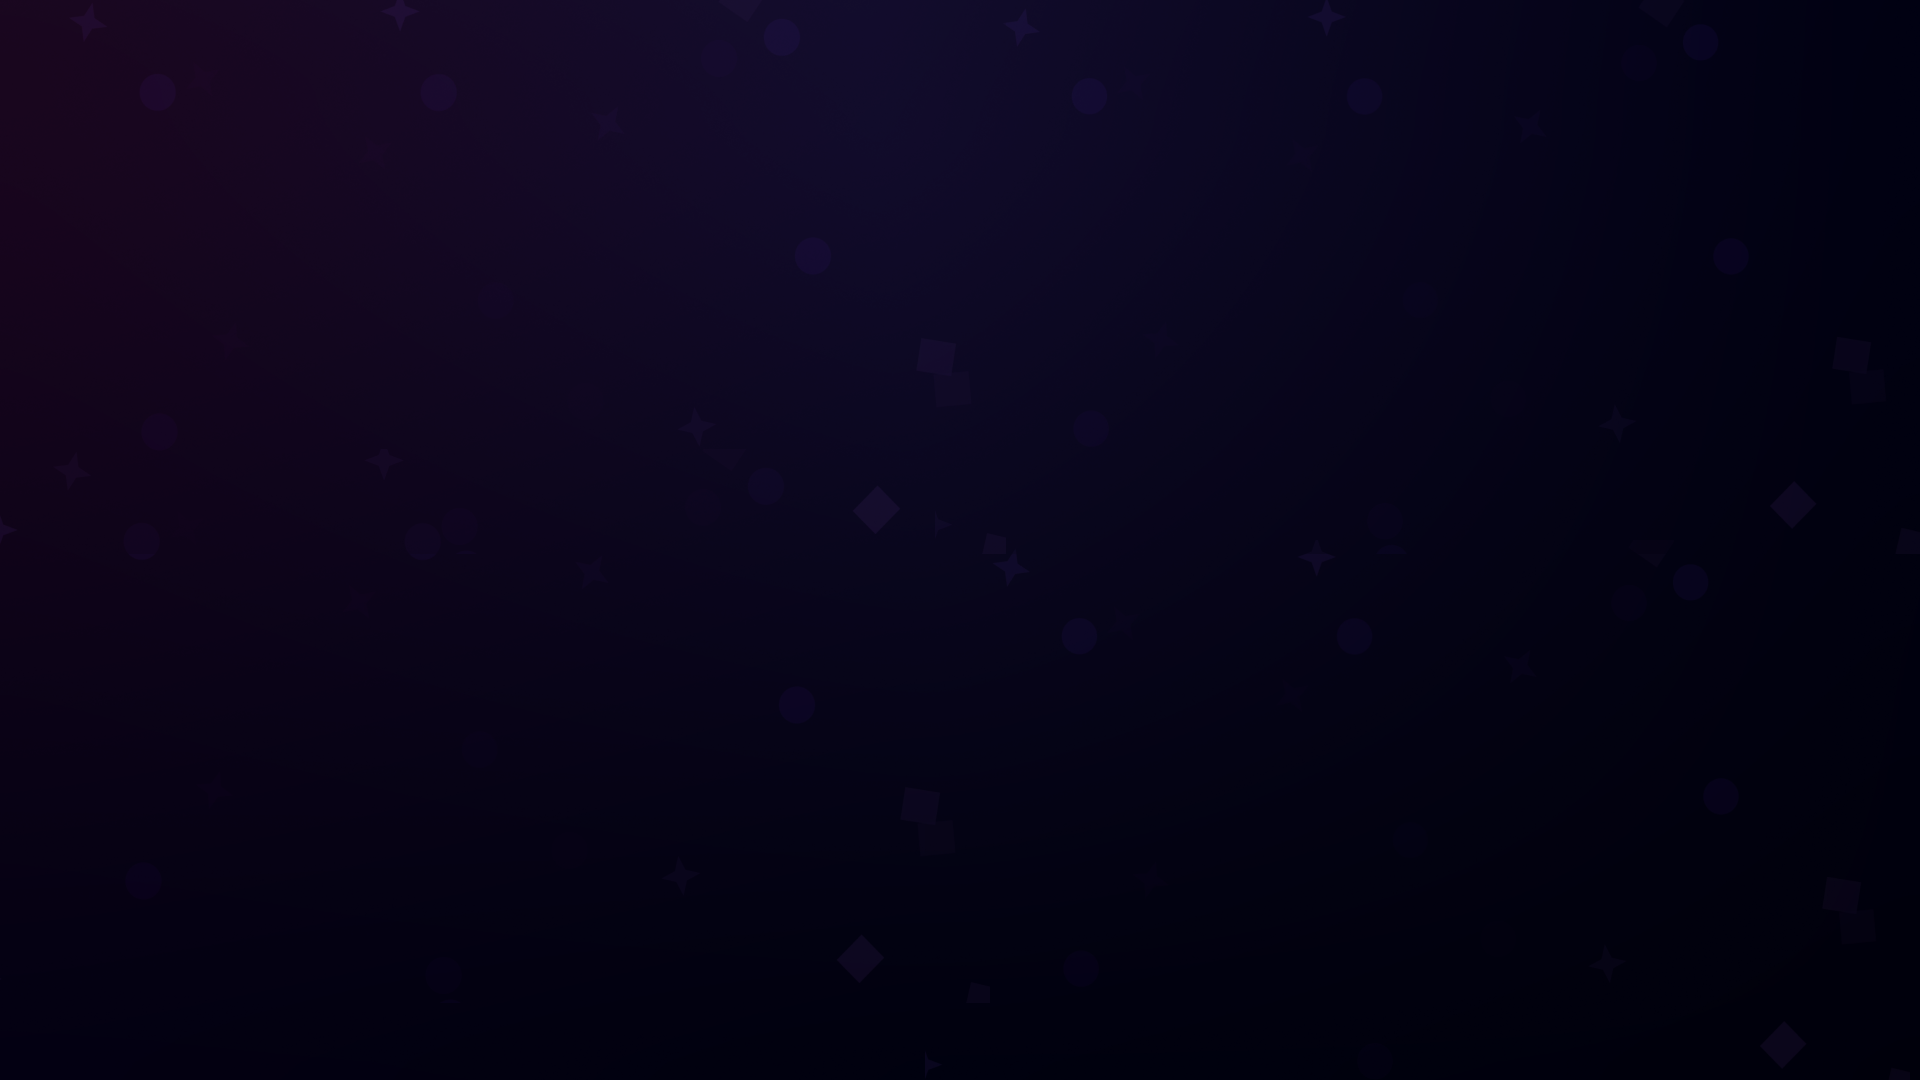
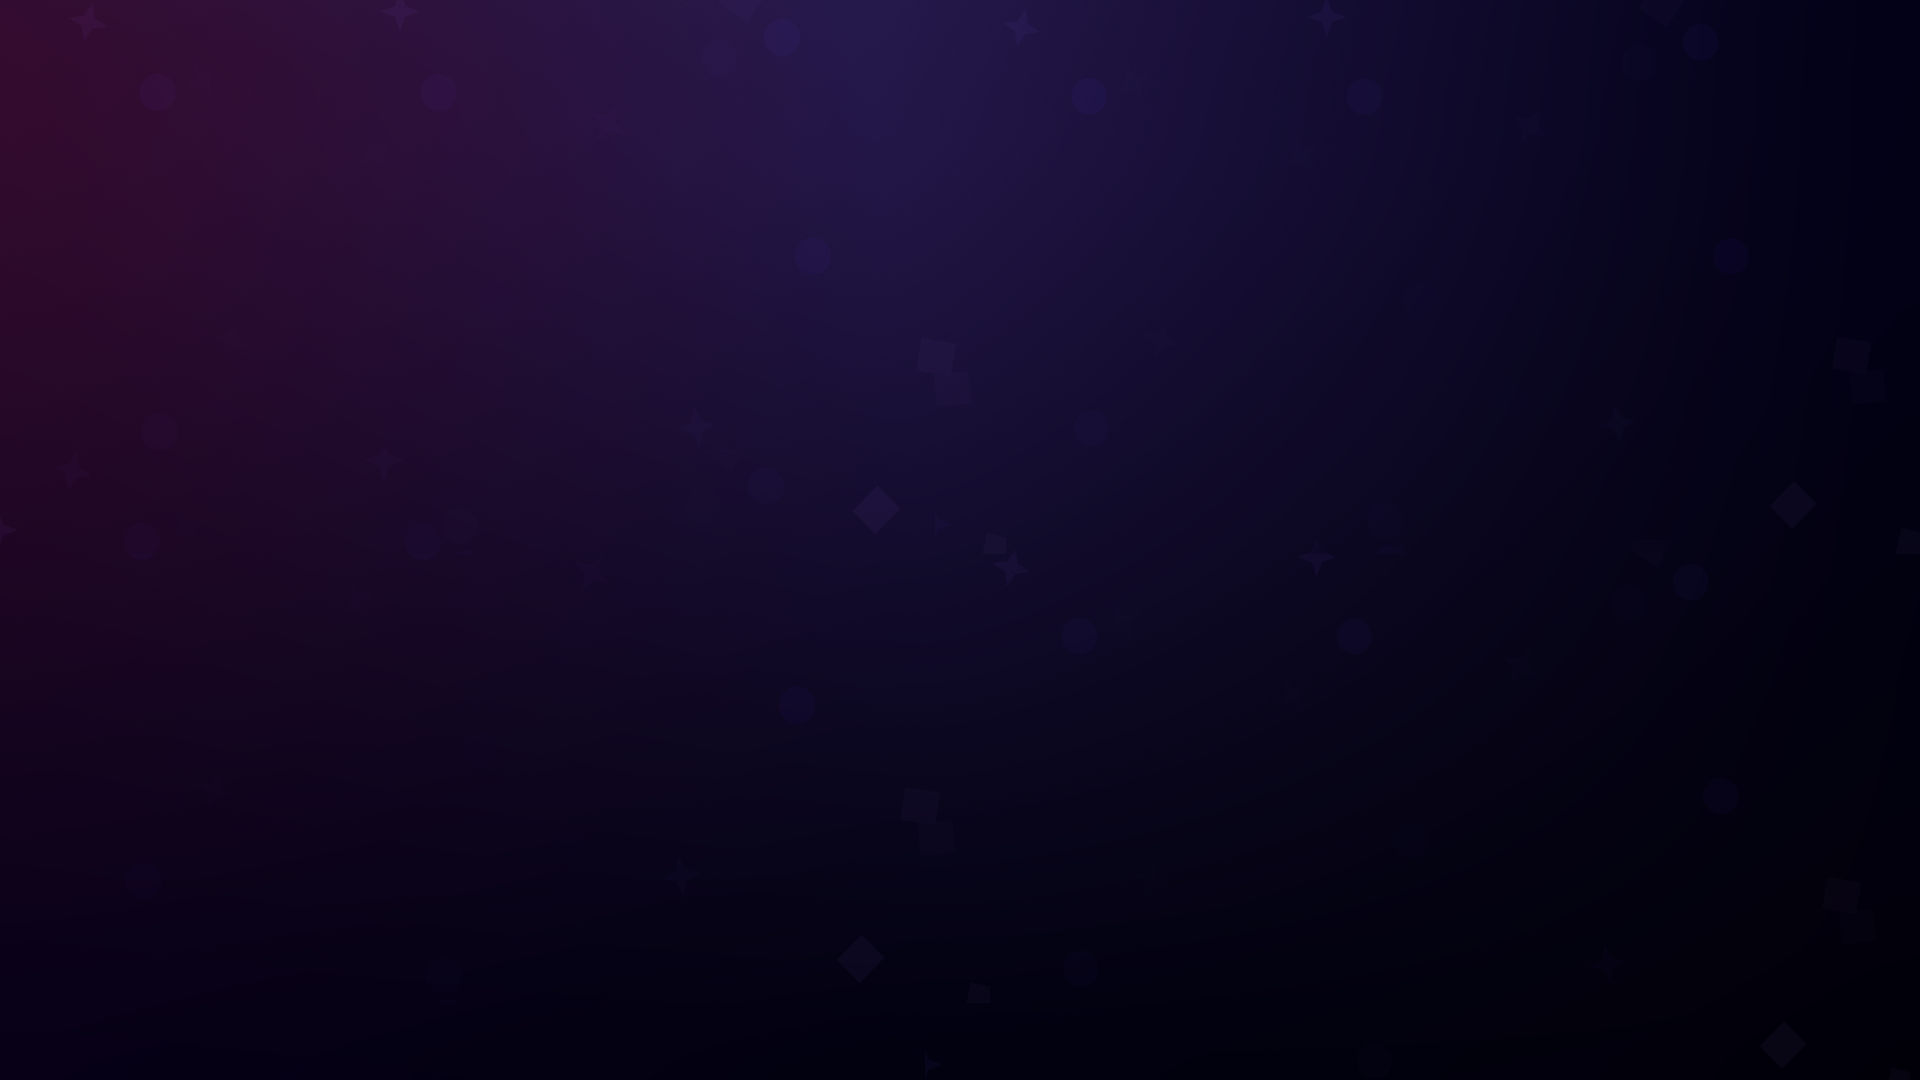
Change hero

Changed region(s): [[0.2188, 0.0, 0.5938, 0.275], [0.0, 0.0, 0.125, 0.1528]]

diff --git a/components/SidebarTech.tsx b/components/SidebarTech.tsx
@@ -59,12 +59,12 @@ const Wrapper = styled(motion.ul)`
   display: none;
 
   gap: 2.5em;
-  background: rgba(131, 82, 253, 0.08);
+  background: hsl(257, 58%, 13%);
   border-top-left-radius: 0.5rem;
   border-bottom-left-radius: 0.5rem;
   border: 1px solid rgba(131, 82, 253, 0.15);
   border-right: none;
-  filter: drop-shadow(0 0.05rem 2rem rgba(131, 82, 253, 0.1));
+  filter: drop-shadow(0 0.05rem 2rem hsl(257 58% 16% / 0.2));
 
   @media (min-width: 500px) {
     display: grid;
@@ -77,12 +77,12 @@ const Tech = styled(motion.img)`
 `
 
 const Bar = styled.div`
-  background: rgba(131, 82, 253, 0.1);
+  background: hsl(257, 58%, 12%);
   border-top-left-radius: 0.5rem;
   border-bottom-left-radius: 0.5rem;
   border: 1px solid rgba(131, 82, 253, 0.15);
   border-right: none;
-  filter: drop-shadow(0 0.05rem 2rem rgba(131, 82, 253, 0.1));
+  filter: drop-shadow(0 0.05rem 2rem hsl(257 58% 16% / 0.2));
   position: absolute;
   left: -18px;
   top: 50%;

diff --git a/styles/GlobalStyles.ts b/styles/GlobalStyles.ts
@@ -10,7 +10,6 @@ const GlobalStyles = createGlobalStyle`
   --primaryColorLight2: hsl(257, 98%, 92%);
 
   --secondaryColor: #f020d8;
-
   --tertiaryColor: #00e5ff;
 
   --textColor: #E3E8FF;
@@ -63,7 +62,7 @@ body {
   -webkit-font-smoothing: antialiased;
   -moz-osx-font-smoothing: grayscale;
   overflow-x: hidden;
-  background: #001;
+  background: hsl(257, 58%, 4%);
 }
 
 
@@ -97,12 +96,17 @@ a {
   border-left: 0.25em solid #f99;
   font-size: 1.8rem !important;
   line-height: 1.3;
+  /* max-width: 800px; */
 
   @media (max-width: 500px) {
     max-width: 100%;
     margin: 0;
     overflow: auto;
     padding-top: 6rem;
+  }
+
+  @media (min-width: 768px) {
+
   }
 }
 `

diff --git a/components/PageHero.tsx b/components/PageHero.tsx
@@ -93,7 +93,7 @@ const PageHero: React.FC<Props> = ({
         <path
           width="100%"
           d="M 0 64 L 48 48 C 96 32 192 0 288 0 C 384 0 480 32 576 58.7 C 672 85 768 107 864 85.3 C 960 64 1056 0 1152 0 C 1248 0 1344 64 1392 96 L 1440 128 L 1440 192 L 0 192 Z"
-          // fill="#001"
+          fill="hsl(257, 58%, 4%)"
         ></path>
       </Wave>
     </Wrapper>
@@ -169,7 +169,7 @@ const Wave = styled(motion.svg)`
   width: 100vw;
   bottom: -1px;
   left: 0;
-  fill: #001;
+  fill: hsl(257, 58%, 4%);
   /* filter: drop-shadow(-100px -10px 1px rgba(155, 81, 224, 0.00001)); */
   pointer-events: none;
 `

diff --git a/pages/tips-tricks/graphql/index.tsx b/pages/tips-tricks/graphql/index.tsx
@@ -38,7 +38,7 @@ export default GraphqlPage
 // Styles
 const Wrapper = styled.div`
   position: relative;
-  background: #001;
+  background: hsl(257, 58%, 4%);
   z-index: 100;
 `
 const Tech = styled(motion.h2)`

diff --git a/components/LayoutPage.tsx b/components/LayoutPage.tsx
@@ -45,7 +45,7 @@ const Main = styled.main`
   max-width: 110rem;
   margin: 0 auto;
   position: relative;
-  background: #001;
+  background: hsl(257, 58%, 4%);
 `
 
 const Container = styled.div`

diff --git a/components/LayoutPost.tsx b/components/LayoutPost.tsx
@@ -92,7 +92,7 @@ const Container = styled.div`
   padding: 4rem 2rem 4rem;
   color: #f4f4f4;
 
-  @media (min-width: 768px) {
+  @media (min-width: 1280px) {
     padding: 0rem 0 4rem;
   }
 `

diff --git a/pages/tips-tricks/index.tsx b/pages/tips-tricks/index.tsx
@@ -21,7 +21,7 @@ export default TipsTricksPage
 // Styles
 const Wrapper = styled.div`
   position: relative;
-  background: #001;
+  background: hsl(257, 58%, 4%);
   z-index: 100;
 `
 

diff --git a/pages/tips-tricks/javascript/index.tsx b/pages/tips-tricks/javascript/index.tsx
@@ -38,7 +38,7 @@ export default JavascriptPage
 // Styles
 const Wrapper = styled.div`
   position: relative;
-  background: #001;
+  background: hsl(257, 58%, 4%);
   z-index: 100;
 `
 

diff --git a/pages/tips-tricks/typescript/index.tsx b/pages/tips-tricks/typescript/index.tsx
@@ -38,7 +38,7 @@ export default TypescriptPage
 // Styles
 const Wrapper = styled.div`
   position: relative;
-  background: #001;
+  background: hsl(257, 58%, 4%);
   z-index: 100;
 `
 

diff --git a/pages/contact.tsx b/pages/contact.tsx
@@ -59,7 +59,7 @@ export default ContactPage
 // Styles
 const Wrapper = styled.div`
   position: relative;
-  background: #001;
+  background: hsl(257, 58%, 4%);
   z-index: 100;
 `
 

diff --git a/pages/courses.tsx b/pages/courses.tsx
@@ -46,7 +46,7 @@ export default CoursesPage
 // Styles
 const Wrapper = styled.div`
   position: relative;
-  background: #001;
+  background: hsl(257, 58%, 4%);
   z-index: 200;
 `
 

diff --git a/pages/about.tsx b/pages/about.tsx
@@ -87,7 +87,7 @@ export default AboutPage
 // Styles
 const Wrapper = styled.div`
   position: relative;
-  background: #001;
+  background: hsl(257, 58%, 4%);
   z-index: 100;
 `
 
